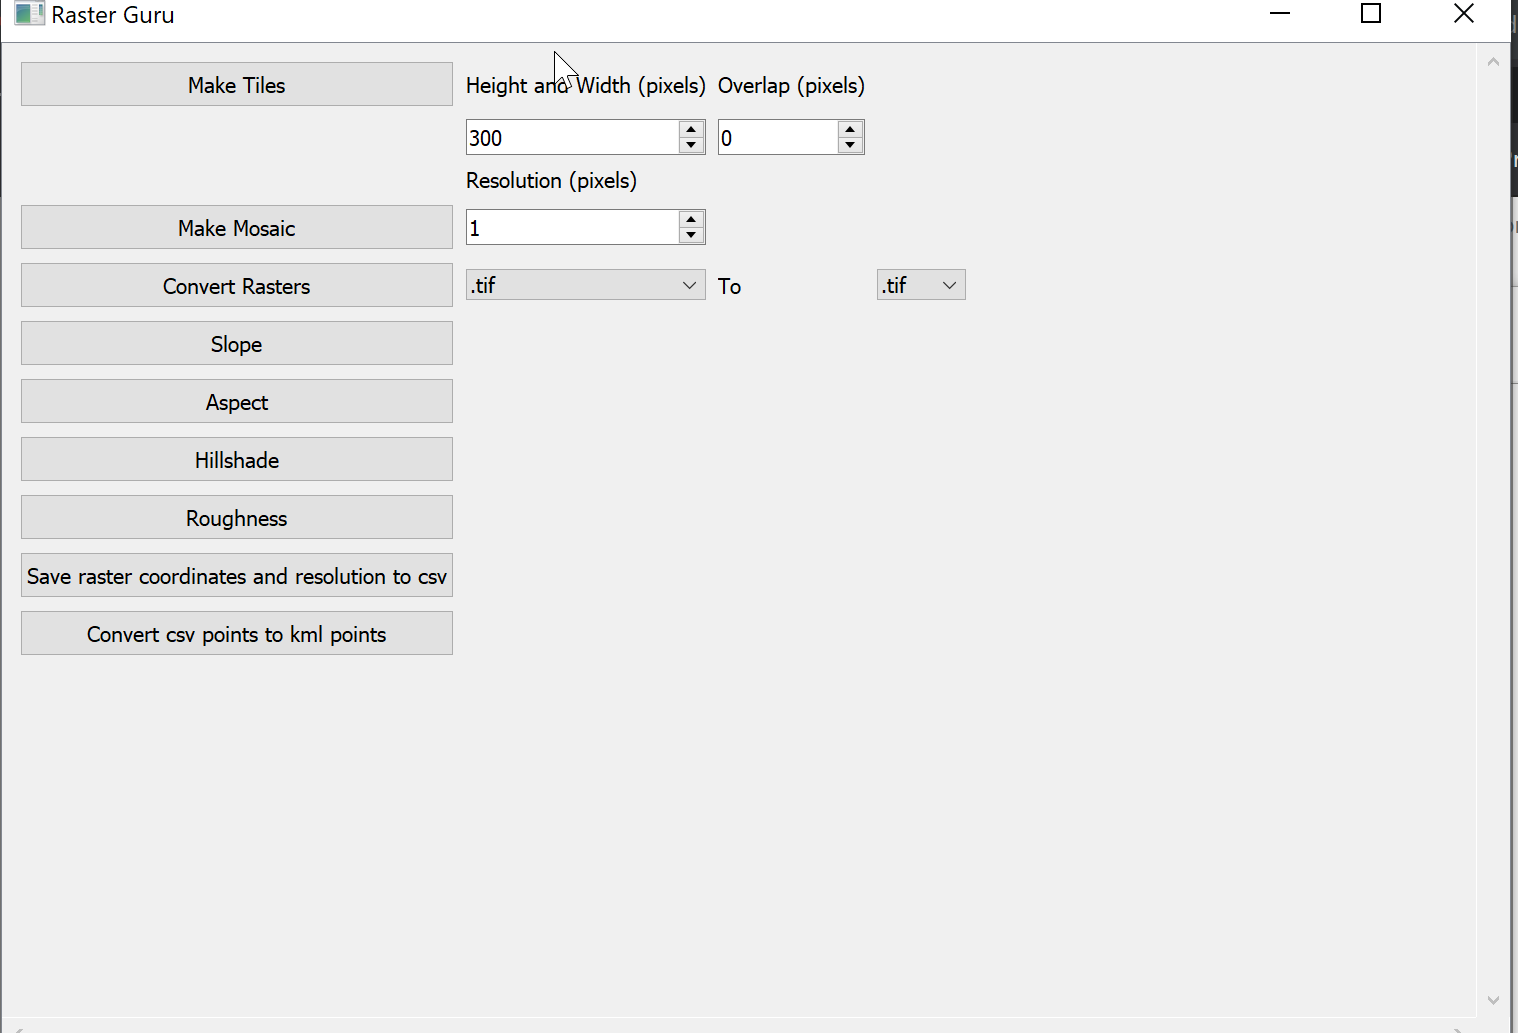
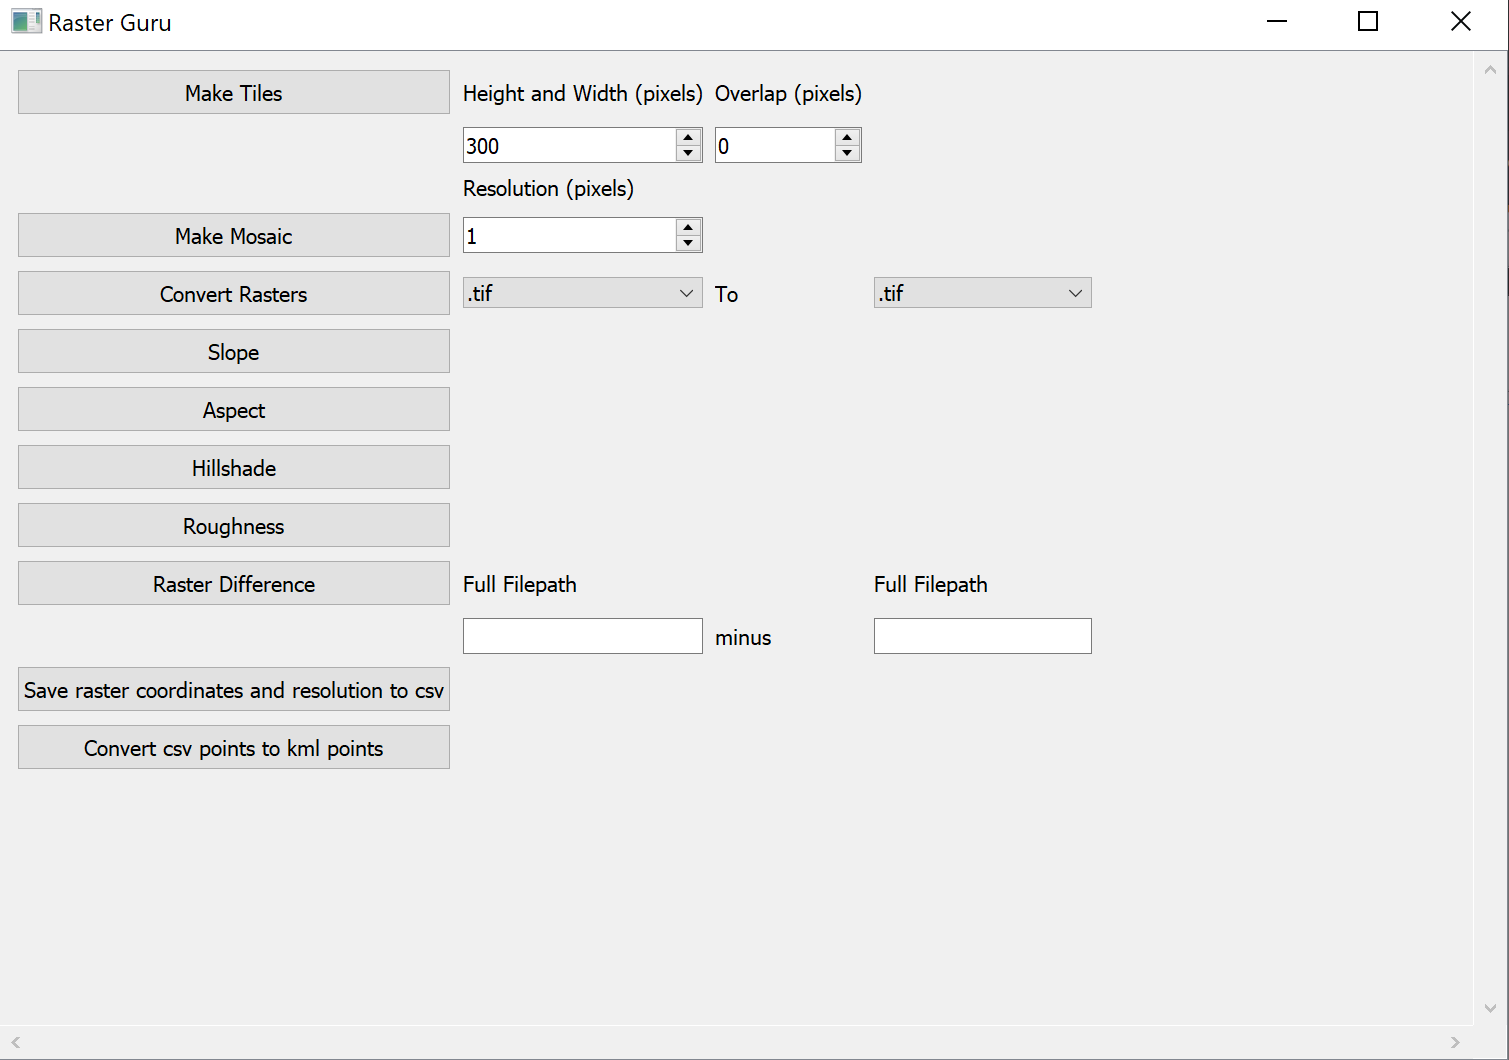
update readme

diff --git a/README.md b/README.md
@@ -15,11 +15,15 @@ For example, if your original image had 10 meter resolution, upping the resoluti
 
 Convert Rasters, Slope, Aspect, Hillshade, and Roughness ask for a folder containing geotiffs and a folder to save the results to.
 
+Raster Difference takes two parameters: The full filepath to the first raster, and the full filepath to the second raster. These must be typed into the text boxes.
+The operation would then be first minus second. This button will clip the first raster and resample it to match the extent and resolution of the second raster, and save this to a new geotiff.
+It will then calculate the difference and save this as difference.tif.
+
 Save raster coords and resolution asks for a folder of geotiffs and then it will save a csv with the image names, raster coordinates, and resolution.
 
 Convert csv points to kml will take a csv with columns 'name', 'lat', 'long' and then convert this to a kml.
 
-Coming soon: Raster Differencing, Constructing Multiband Rasters.
+Coming soon: Raster Differencing With Shapefile Masks, Constructing Multiband Rasters, Projecting Rasters.
 
 To run in Anaconda, the requirements are python 3.7, pyqt5, gdal, pandas, simplekml.
 
